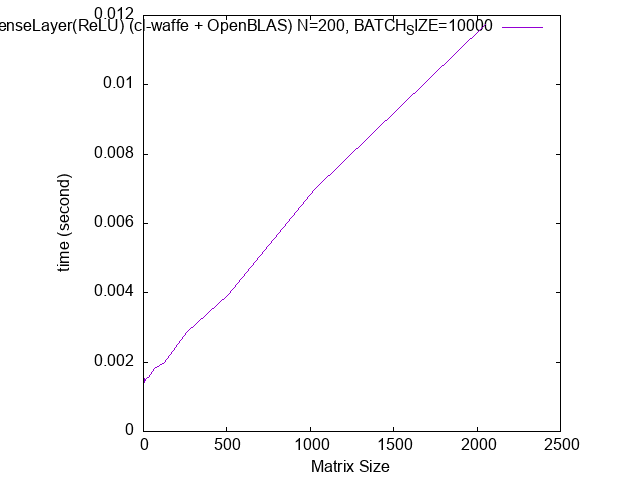
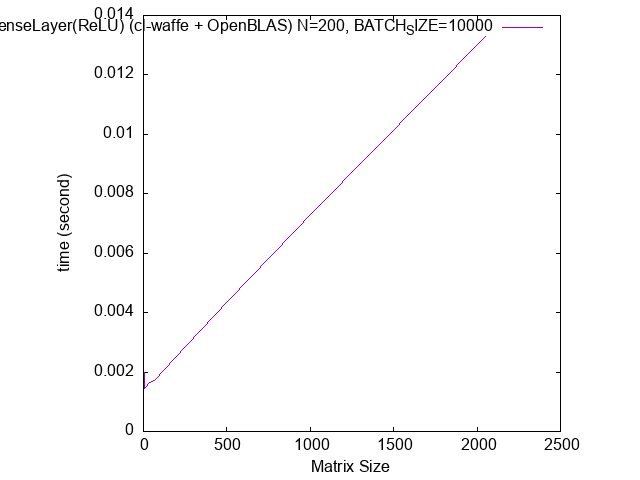
Added: latest result of benchmarking

diff --git a/benchmark/Result.md b/benchmark/Result.md
@@ -1,20 +1,21 @@
 # Benchmarking
 
-The latest benchmark is executed at 16:45:51 of Wednesday, 3/29/2023 (GMT+9)
+The latest benchmark is executed at 19:04:09 of Sunday, 4/02/2023 (GMT+9)
 
 First, as a matrix arithmetic library, I measured benchmarks compared to NumPy as impartial as possible..
 
 Also, cl-waffe is also a deep learning framework. Benchmakrs compared to PyTorch is available.
 
-⚠ cl-waffe and numpy are working on a different backends, openblas and mkl respectively. The author didn't know how to use numpy in OpenBLAS... So the result may be inaccuracy...
-
-The main purpose of this benchmark is to measure the difference between cl-waffe and numpy/pytorch. **Not to indicate which is a superior and inferior**
+The main purpose of this benchmark is to measure the difference between cl-waffe and numpy/pytorch. Not to indicate which is a superior and inferior. For example, we can learn in what scale cl-waffe is useful or cl-waffe is slow.
 
 From this result, we can learn:
 
-1. With regard to smaller matrices, cl-waffe is slow, because bottlenecks in library calls, such as generic functions, have room for optimisation.
+With regard to smaller matrices, cl-waffe is slow, because bottlenecks in library calls, have room for optimisation.
 
-2. With regard to larger matrices, cl-waffe performs almost the same. This is because the overheads can be ignored, and their differences stem from their backends, rather than libraries.
+With regard to larger matrices, cl-waffe performs almost the same. This is because the overheads can be ignored, and their differences stem from their backends, rather than libraries.
+
+
+⚠ cl-waffe and numpy are working on a different backends, openblas and mkl respectively. The author didn't know how to use numpy in OpenBLAS... So the result may be inaccuracy...
 
 ## Machine Environments
 
@@ -30,12 +31,12 @@ all benchmark is working on single-float(np.float32)
 
 ### cl-waffe
 
-- Working on SBCL [2.3.2]
-- cl-waffe (latest, 16:45:51 of Wednesday, 3/29/2023 (GMT+9))
+- Working on SBCL [2.3.3]
+- cl-waffe (latest, 19:04:09 of Sunday, 4/02/2023 (GMT+9))
 
 ```lisp
 cl-user::*lla-configuration*
-(LIBRARIES (/usr/local/Cellar/openblas/0.3.21/lib/libblas.dylib))
+(LIBRARIES (/usr/local/Cellar/openblas/0.3.22/lib/libblas.dylib))
 ```
 ### numpy
 
